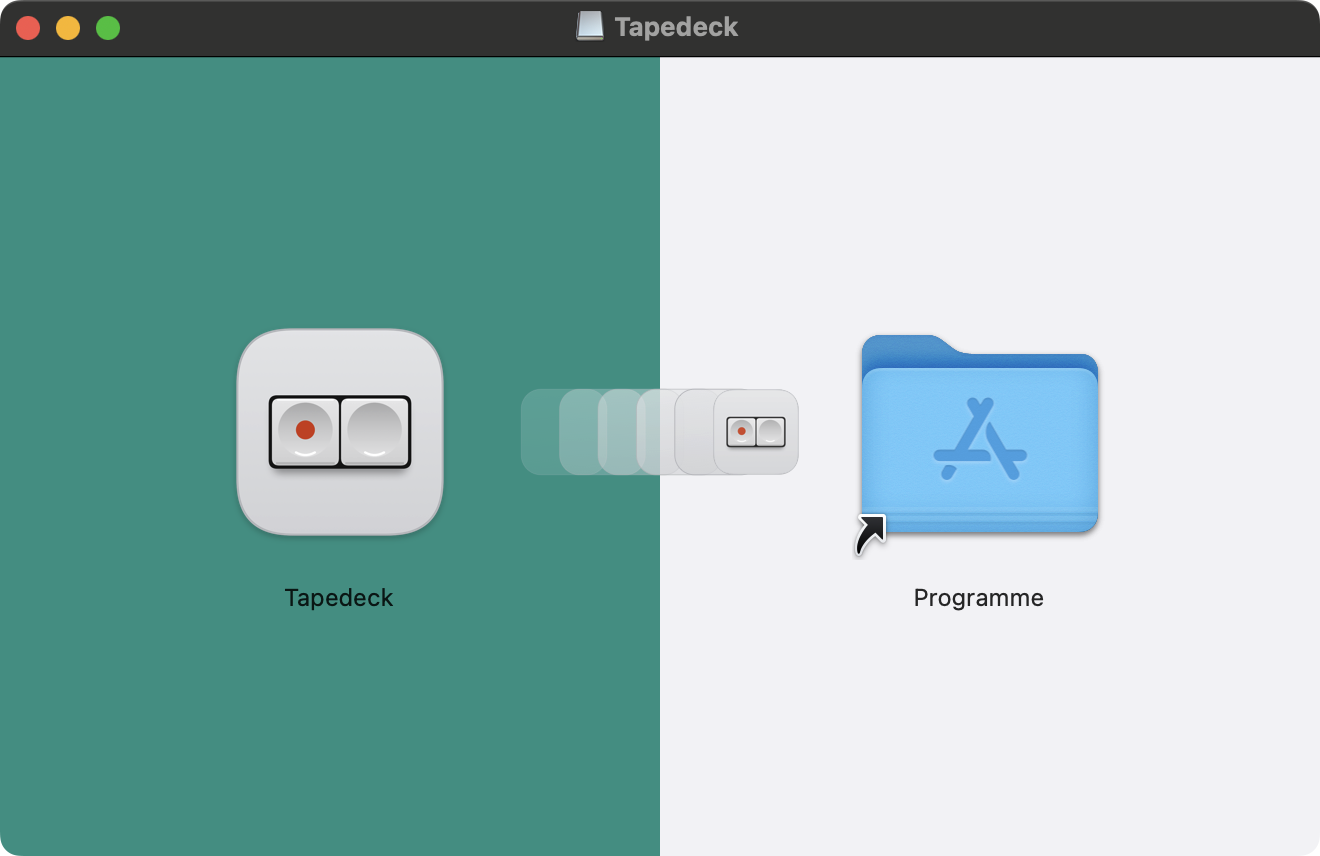
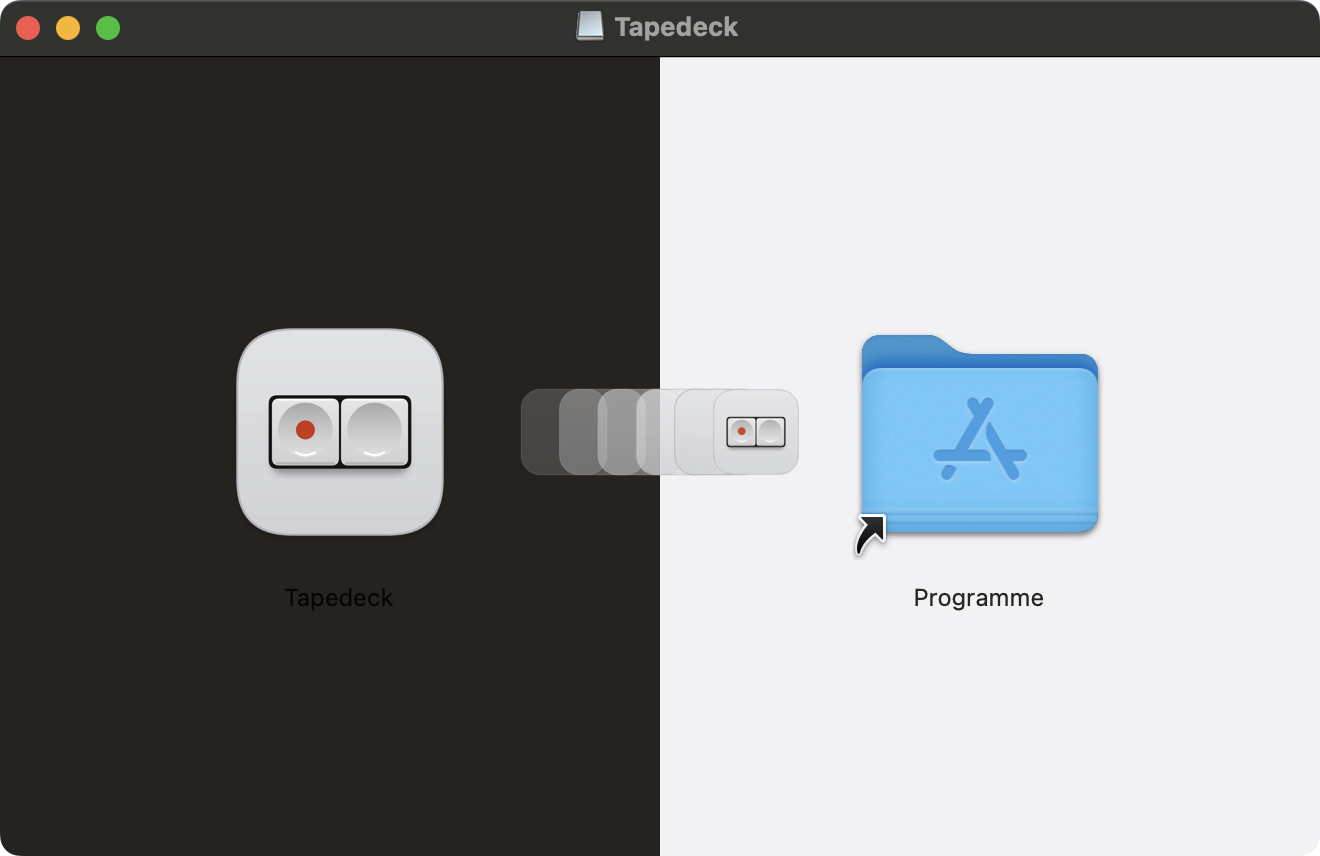
Tapedeck 1.2.2: DMG in the timeline's tape brown, no speed overlay
- DMG left half: tape brown #2A2623 from the editor's timeline
  (recorded in CLAUDE.md with the accepted label-contrast trade-off)
- Editor: J/L speed (2×, 4×) is no longer shown above the timeline

diff --git a/scripts/make-dmg-background.swift b/scripts/make-dmg-background.swift
@@ -1,5 +1,5 @@
 // Draws the background of the download image's window, the DMG look shared by all of Moe's apps (moe-apps skill,
-// "DMG window"): 660 × 400 pt, split in the middle – left the app's colour (Tapedeck: petrol #239A8C, the counter-colour to the red record dot), right #F4F4F6.
+// "DMG window"): 660 × 400 pt, split in the middle – left the app's colour (Tapedeck: #2A2623, the tape brown of the editor's timeline), right #F4F4F6.
 // No text. Between the app icon (centre 170, 188) and the Applications link (centre 490, 188) a motion trail:
 // a small, 10 % lighter copy of the app icon at the right end (x 354–402) and behind it 5 silhouettes of the icon's
 // plate, 19.2 pt apart, opacity rising from left to right like in-between frames of a movement.
@@ -15,7 +15,7 @@ guard args.count == 4, let icon = NSImage(contentsOfFile: args[1]), let scale = 
     FileHandle.standardError.write(Data("usage: make-dmg-background.swift <AppIcon.png> <out.png> <scale>\n".utf8)); exit(1)
 }
 let w = 660.0, h = 400.0, midY = 188.0
-// sRGB throughout, so #239A8C lands as #239A8C in the Finder
+// sRGB throughout, so the colours land unchanged in the Finder
 let srgb = CGColorSpace(name: CGColorSpace.sRGB)!
 let cg = CGContext(data: nil, width: Int(w * scale), height: Int(h * scale), bitsPerComponent: 8, bytesPerRow: 0,
                    space: srgb, bitmapInfo: CGImageAlphaInfo.premultipliedLast.rawValue)!
@@ -25,7 +25,7 @@ cg.translateBy(x: 0, y: h)
 cg.scaleBy(x: 1, y: -1)
 
 // split background
-cg.setFillColor(color(0x239A8C)); cg.fill(CGRect(x: 0, y: 0, width: w / 2, height: h))
+cg.setFillColor(color(0x2A2623)); cg.fill(CGRect(x: 0, y: 0, width: w / 2, height: h))
 cg.setFillColor(color(0xF4F4F6)); cg.fill(CGRect(x: w / 2, y: 0, width: w / 2, height: h))
 
 // the icon's plate: 42.8 pt inside the 48 pt icon box (AppIcon.png puts its 824 px plate on Apple's 1024 grid)

diff --git a/editor.swift b/editor.swift
@@ -867,7 +867,6 @@ struct EditorContent: View {
     private var status: String? {
         if let e = model.error { return e }
         if model.importing { return "importiere …" }
-        if model.speed < 0 || model.speed > 1 { return model.speed < 0 ? "◂ \(-model.speed)×" : "▸ \(model.speed)×" }
         return nil
     }
 

diff --git a/CLAUDE.md b/CLAUDE.md
@@ -8,4 +8,4 @@ Tiny macOS app (SwiftUI, macOS 13+): records the system audio to WAV 48 kHz / 24
 
 ## DMG window
 
-Shared look (moe-apps "DMG window"), drawn by `scripts/make-dmg-background.swift`. **Left colour: petrol #239A8C** (owner's choice 2026-11-18, counter-colour to the red record dot; labels 4.9:1, icon 2.6:1). Orange and dark tones were rejected – the Finder keeps the icon labels black in both appearances.
+Shared look (moe-apps "DMG window"), drawn by `scripts/make-dmg-background.swift`. **Left colour: tape brown #2A2623**, the brown of the editor's timeline (owner's decision 2026-11-18, after petrol, orange and a lighter brown #96836B were rejected). Known trade-off, accepted by the owner: the Finder draws the icon labels black in both appearances, so the name "Tapedeck" under the app icon is barely readable on it (1.1:1); the icon itself stands out strongly (11:1).

diff --git a/README.md b/README.md
@@ -58,7 +58,7 @@ After you stop, the editor opens: trim the recording, cut out what you don't nee
 1. Download `Tapedeck-<version>.dmg` from [Releases](../../releases) and open it.
 2. Drag `Tapedeck.app` onto the **Programme** (Applications) folder in the window that opens.
 
-<p align="center"><img src="assets/screenshots/dmg.png" width="460" alt="Download image window: Tapedeck on a petrol half, the Applications folder on a light half, a trail of fading icons between them"></p>
+<p align="center"><img src="assets/screenshots/dmg.png" width="460" alt="Download image window: Tapedeck on a dark tape-brown half, the Applications folder on a light half, a trail of fading icons between them"></p>
 
 ### First launch: “Apple could not verify …”
 
